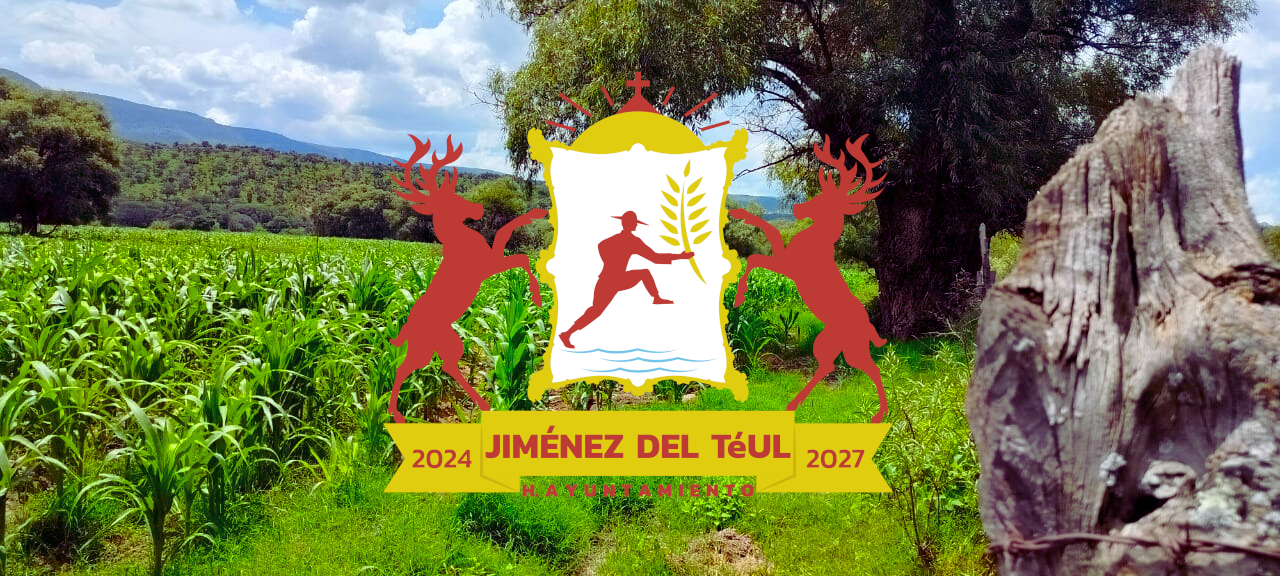
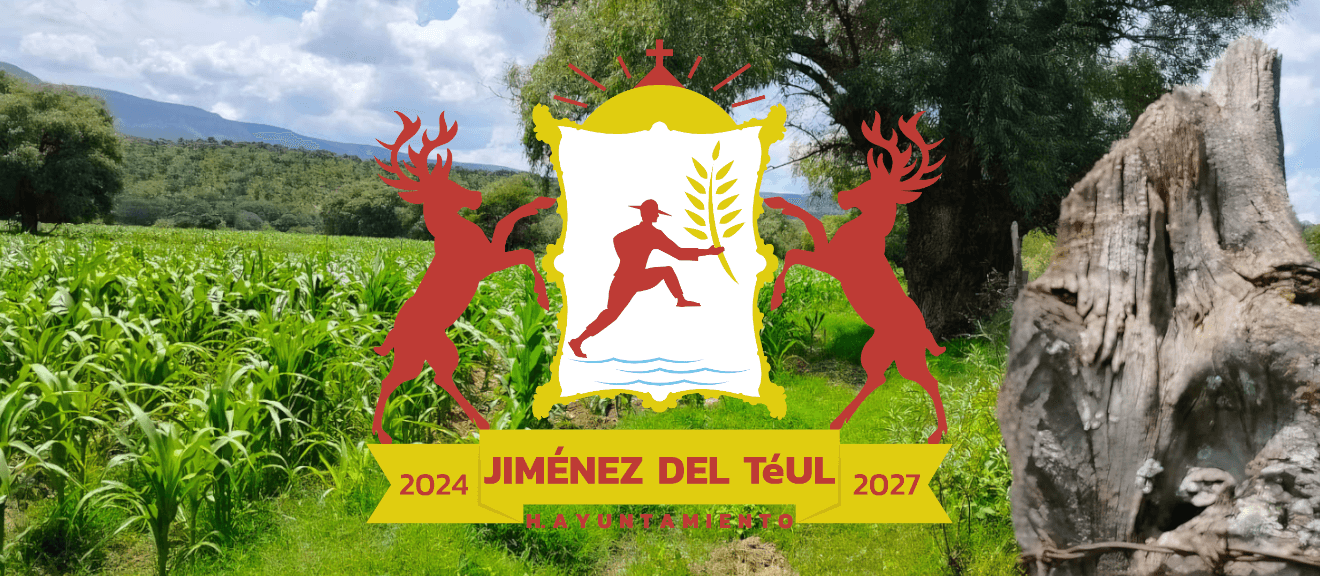
Update header images to XXL

diff --git a/gobierno/presidente.html b/gobierno/presidente.html
@@ -17,7 +17,7 @@
 		<div class="row">
 			<!-- Start col -->
 			<div class="col">
-				<img src="../data/header_presidente.jpg" loading="lazy" class="img-fluid" alt="Presidente municipal de Jiménez del Téul">
+				<img src="../data/header_presidente.png" loading="lazy" class="img-fluid" alt="Presidente municipal de Jiménez del Téul">
 			</div>
 			<!-- End col -->
 		</div>

diff --git a/gobierno/directorio.html b/gobierno/directorio.html
@@ -17,7 +17,7 @@
 		<div class="row">
 			<!-- Start col -->
 			<div class="col">
-				<img src="../data/header-directorio.png" loading="lazy" class="img-fluid"
+				<img src="../data/header_directorio.png" loading="lazy" class="img-fluid"
 					alt="Los portales de la presidencia municipal de Jiménez del Téul">
 			</div>
 			<!-- End col -->

diff --git a/gobierno/organigrama.html b/gobierno/organigrama.html
@@ -18,7 +18,7 @@
 			<!-- Start col -->
 			<div class="col">
 				<!-- FALTA ALT="" -->
-				<img src="../data/header_organigrama.jpg" loading="lazy" class="img-fluid" alt="">
+				<img src="../data/header_organigrama.png" loading="lazy" class="img-fluid" alt="">
 			</div>
 			<!-- End col -->
 		</div>
